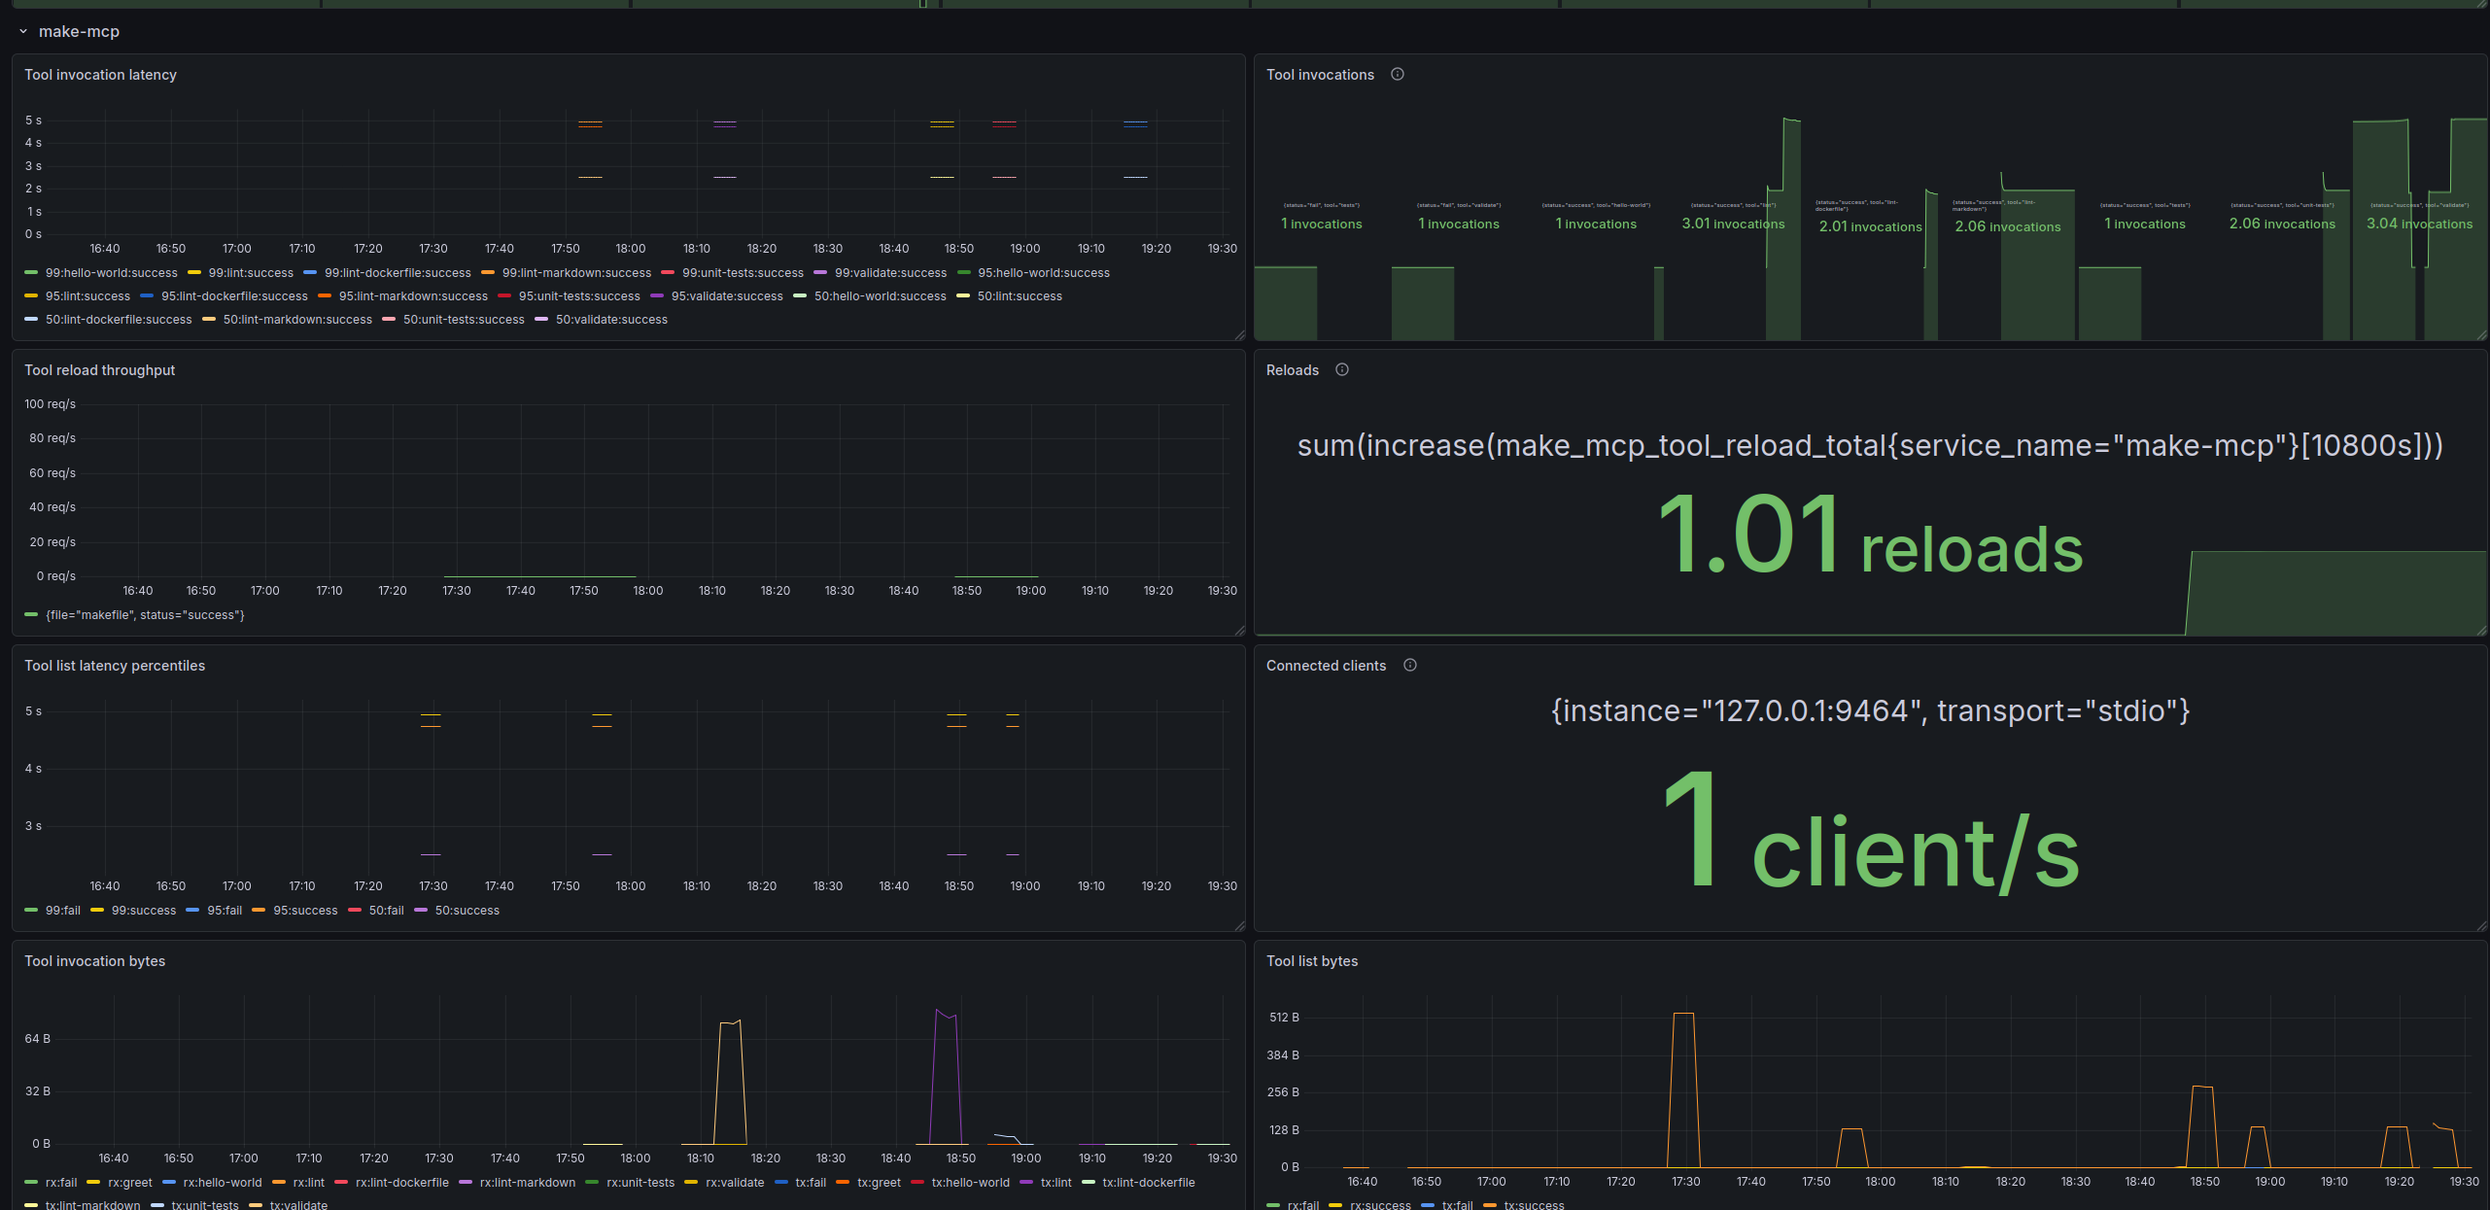
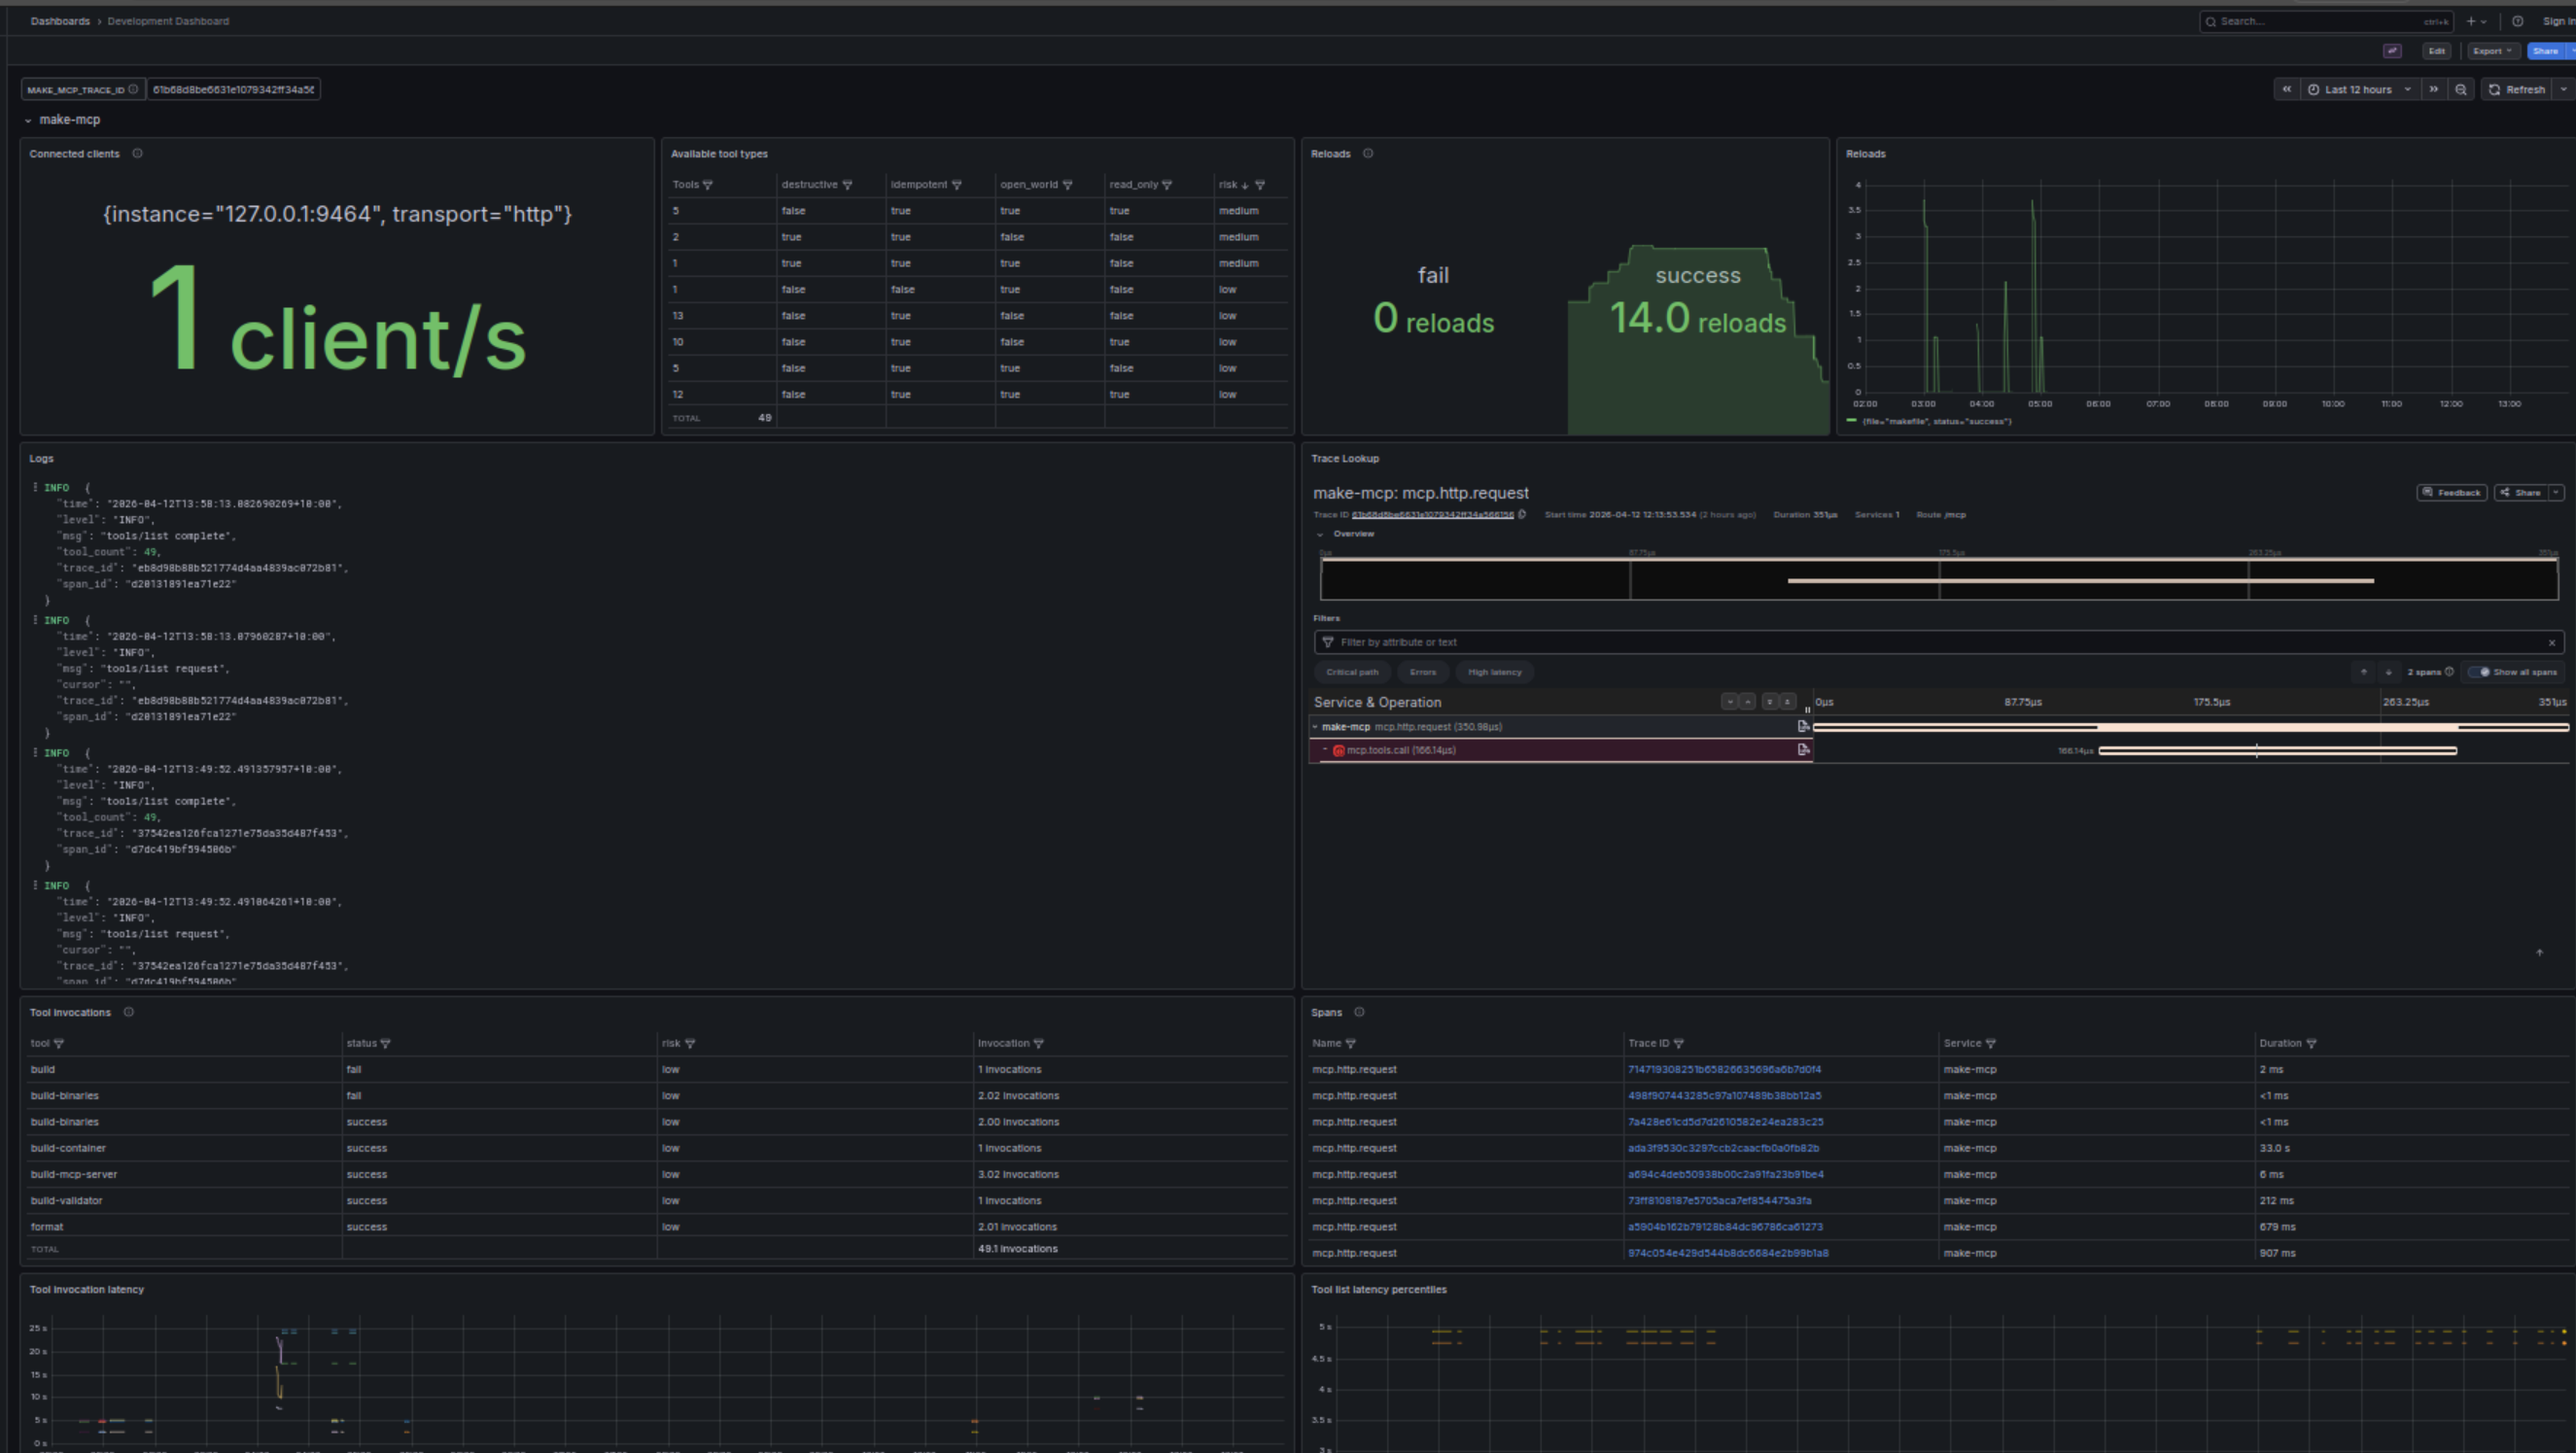
fix(ci): fix releases and wiki images

diff --git a/cmd/gen-metrics-doc/main.go b/cmd/gen-metrics-doc/main.go
@@ -85,7 +85,7 @@ func main() {
 	err := run(
 		"pkg/telemetry/metrics.go",
 		"cmd/mcp-server/main.go",
-		"docs/telemetry.md.tmpl",
+		"wiki/tmpl/telemetry.md.tmpl",
 		"wiki/Telemetry.md",
 	)
 	switch {

diff --git a/README.md b/README.md
@@ -1,10 +1,13 @@
 # make-mcp
 
-An MCP (Model Context Protocol) server that exposes Makefile recipes as tools.
-Teach your large language model to use your repo through Makefile annotations.
+An MCP (Model Context Protocol) server that exposes Makefile recipes as tools.\
+![make-mcp logo](./wiki/images/make-mcp-crab.png)
+> Logo generated by [Gemini](https://gemini.google.com) - I would love to commission someone to re-create this for real.\
+> If you are interested in making the logo for this tool hit me up!
 
-Teach your LLM how to understand common processes defined in makefiles, and provide a gateway for contained code execution.
+---
 
+**Teach your LLM how to understand common processes** defined in makefiles, and provide a gateway for contained code execution.\
 ![Claude acting on a natural language prompt to lint and build the repo](./wiki/images/claude_prompt.png)
 
 ---

diff --git a/wiki/Home.md b/wiki/Home.md
@@ -1,10 +1,13 @@
 # make-mcp
 
-An MCP (Model Context Protocol) server that exposes Makefile recipes as tools.
-Teach your large language model to use your repo through Makefile annotations.
+An MCP (Model Context Protocol) server that exposes Makefile recipes as tools.\
+![make-mcp logo](./images/make-mcp-crab.png)
+> Logo generated by [Gemini](https://gemini.google.com) - I would love to commission someone to re-create this for real.\
+> If you are interested in making the logo for this tool hit me up!
 
-Teach your LLM how to understand common processes defined in makefiles, and provide a gateway for contained code execution.
+---
 
+**Teach your LLM how to understand common processes** defined in makefiles, and provide a gateway for contained code execution.\
 ![Claude acting on a natural language prompt to lint and build the repo](./images/claude_prompt.png)
 
 ---

diff --git a/wiki/Telemetry.md b/wiki/Telemetry.md
@@ -110,5 +110,8 @@ override with `OTEL_EXPORTER_PROMETHEUS_HOST` and `OTEL_EXPORTER_PROMETHEUS_PORT
 | Unit | — |
 | Labels | `destructive`, `idempotent`, `open_world`, `read_only`, `risk` |
 
-A dashboard using the metrics can be found at `./dev/dashboards/`.\
-![make-mcp key metrics dashboard panels](./images/make-mcp-development-panels.png)
+# Dashboards
+
+A dashboard for working with this repo can be found at `./dev/dashboards/development-dashboard.json`.\
+![make-mcp key metrics dashboard panels](./images/make-mcp-development-panels.png)\
+It contains example panels for key metrics to monitor when running make-mcp.
